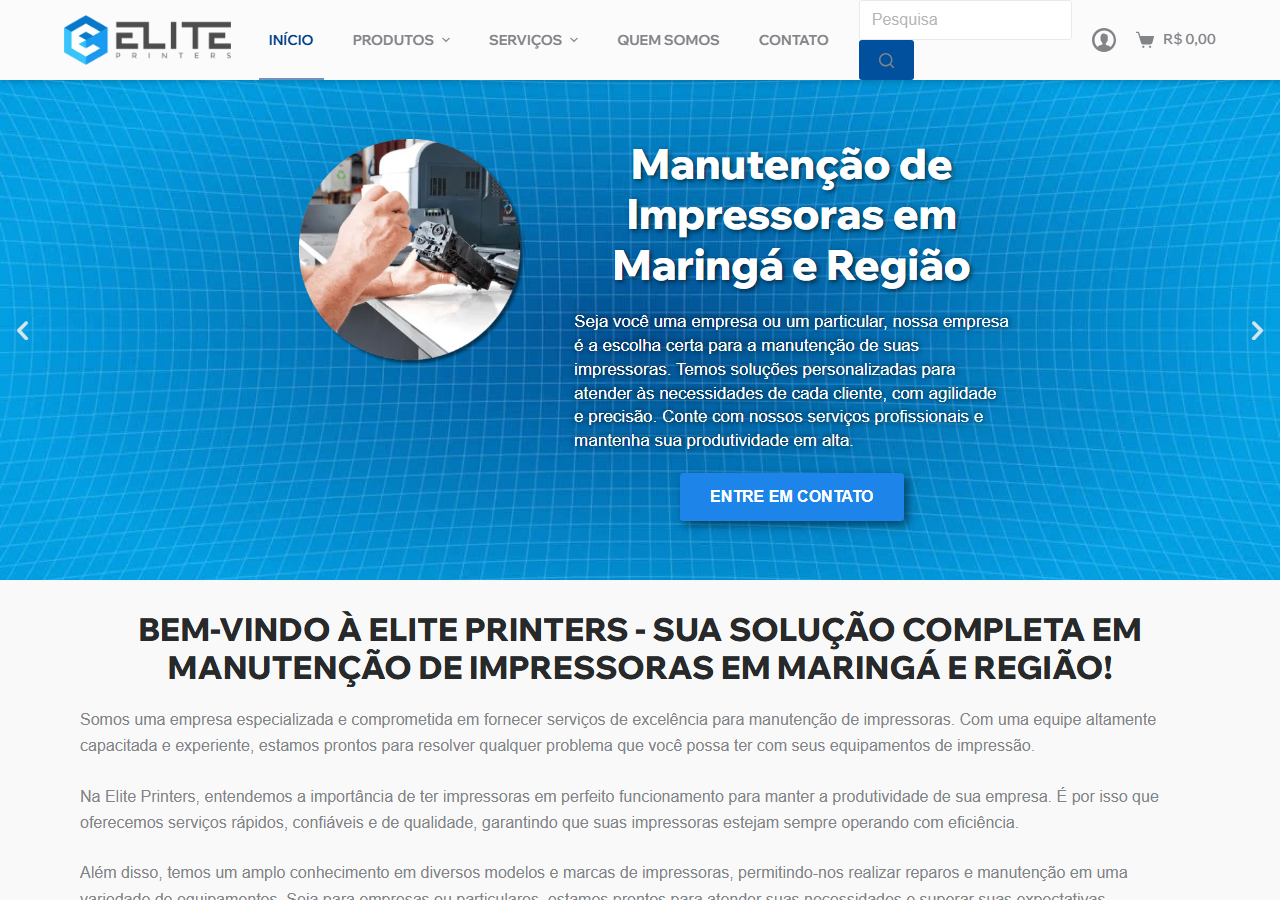
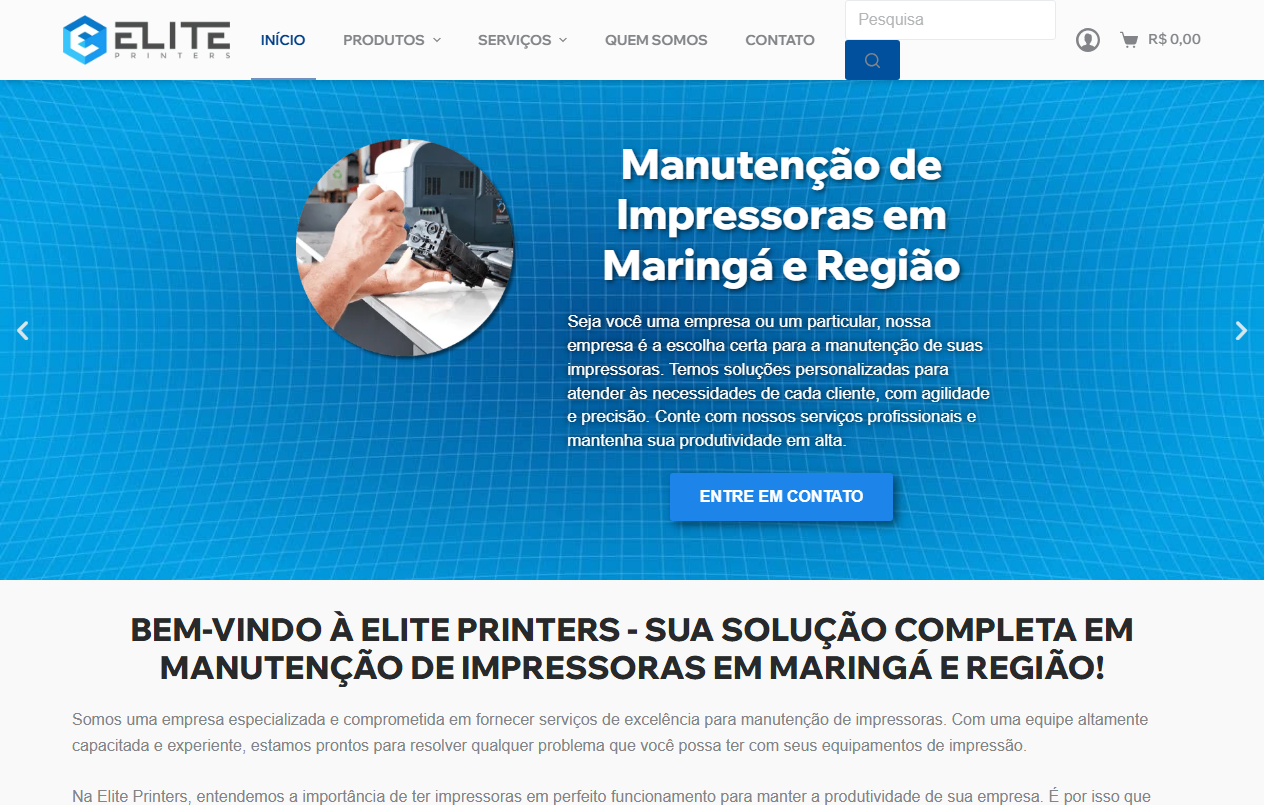
Screenshots corrigidos: captura com renderização completa
- Recaptura via Chrome DevTools Protocol com espera real, scroll para lazy-load,
  dispensa de banners de cookies e remoção de widgets de chat automáticos
- Corrigidos: integrapsicologia (fotos), podologamaringa (hero), blackbridge (hero),
  if3d, digitalcopy, egecon (chat removido), clinicacarlosgomes (captura estendida)
- Novos no portfólio: Arquitetos Urbanistas (arq-urb.com) e Orçamentti (orcamentti.com)

diff --git a/README.md b/README.md
@@ -127,10 +127,12 @@ Clique na imagem para visitar o site:
 
 | Screenshot | Site | O que foi realizado |
 |:---:|:---|:---|
+| [<img src="screenshots/arq-urb.png" width="220" alt="Arquitetos Urbanistas">](https://www.arq-urb.com/) | [**Arquitetos Urbanistas**](https://www.arq-urb.com/) | Site institucional de escritório de arquitetura e urbanismo com atuação nacional: portfólio de projetos urbanísticos em carrossel, apresentação da equipe e contato, com identidade visual corporativa. |
 | [<img src="screenshots/blackbridgebusiness.png" width="220" alt="Black Bridge Business">](https://blackbridgebusiness.com) | [**Black Bridge Business**](https://blackbridgebusiness.com) | Site institucional de consultoria em exportação e importação de commodities: apresentação de serviços de viabilidade financeira e logística, com apelo visual corporativo e foco em geração de leads. |
 | [<img src="screenshots/caetanobilhar.png" width="220" alt="Caetano Bilhar">](https://www.caetanobilhar.com.br/) | [**Caetano Bilhar**](https://www.caetanobilhar.com.br/) | Site institucional com vitrine de mesas de bilhar novas e usadas, locação, reforma e acessórios, otimizado para busca local em Assis e região. |
 | [<img src="screenshots/digitalcopy.png" width="220" alt="Digital Copy Soluções">](http://www.digitalcopysolucoes.com/) | [**Digital Copy Soluções**](http://www.digitalcopysolucoes.com/) | Site de locação de impressoras em Maringá: planos e benefícios de redução de custos, suporte especializado e formulário de orçamento. |
 | [<img src="screenshots/gobbilanziotti.png" width="220" alt="Gobbi & Lanziotti">](https://www.gobbilanziotti.com.br/) | [**Gobbi & Lanziotti**](https://www.gobbilanziotti.com.br/) | Site institucional de empresa de cobranças: soluções (departamento jurídico, cobrança extrajudicial e judicial), diferenciais, carteira de clientes e atendimento via WhatsApp. |
+| [<img src="screenshots/orcamentti.png" width="220" alt="Orçamentti">](https://www.orcamentti.com/) | [**Orçamentti**](https://www.orcamentti.com/) | Site institucional de empresa de orçamentação de obras de engenharia: serviços, segmentos de atuação, tabelas referenciais e carteira de clientes. |
 | [<img src="screenshots/egecon.png" width="220" alt="Egecon Garantidora">](https://www.egecongarantidora.com) | [**Egecon Garantidora**](https://www.egecongarantidora.com) | Site de garantidora condominial: soluções de gestão, cobrança de taxas e combate à inadimplência, com posicionamento para o mercado de Maringá-PR. |
 
 ### 📰 Portais & Mídia
